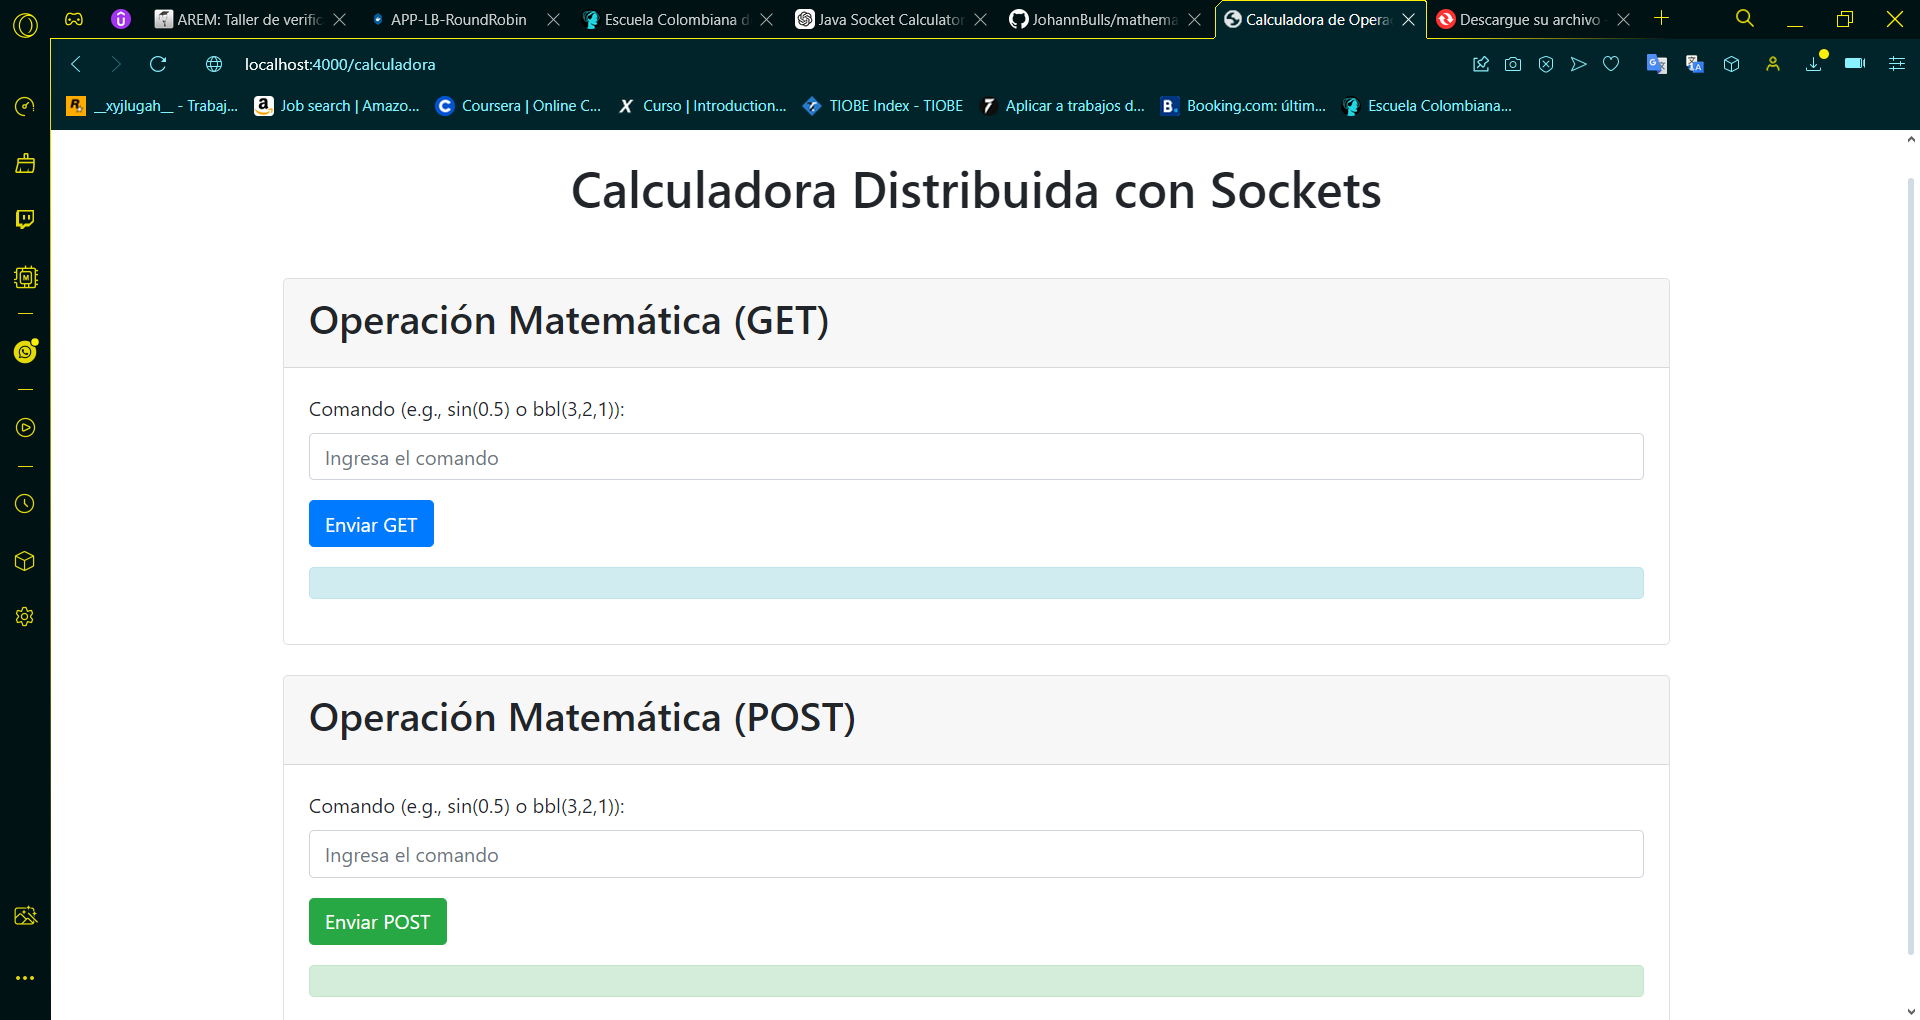
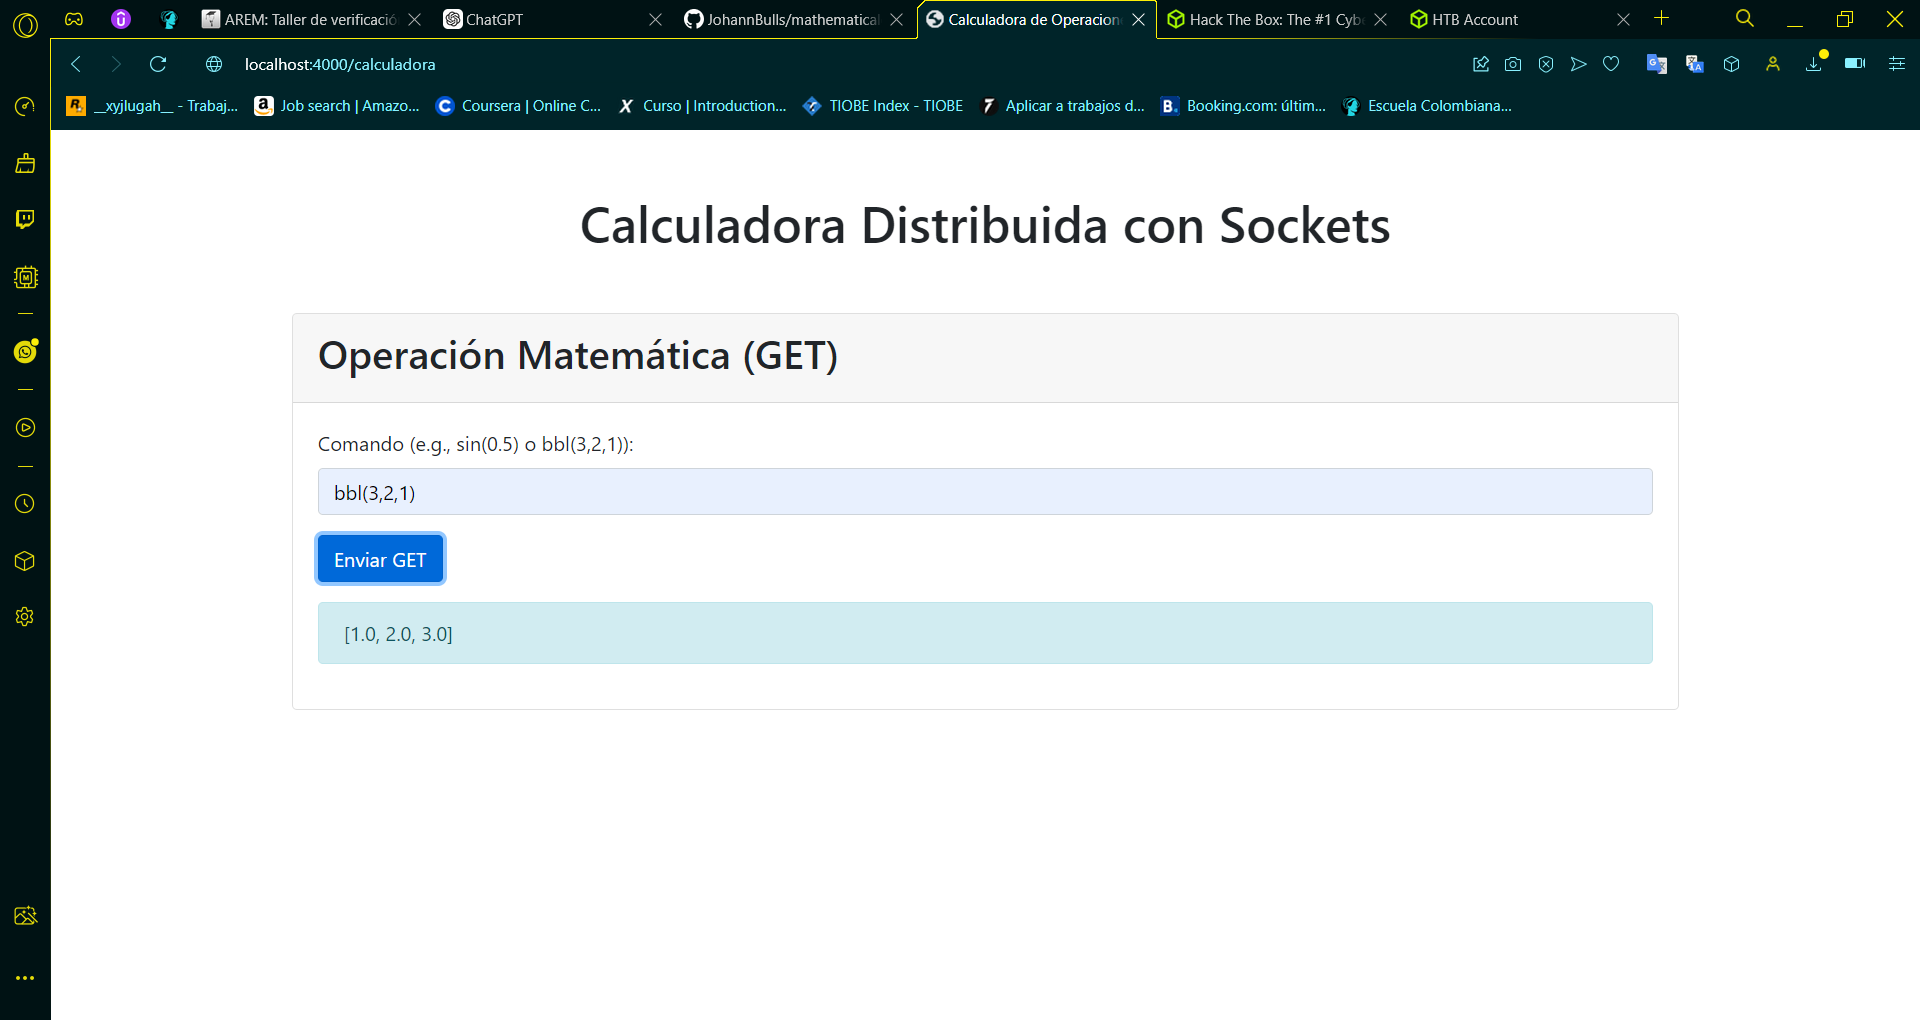
Correct

diff --git a/src/main/resources/web/index.html b/src/main/resources/web/index.html
@@ -4,7 +4,6 @@
     <meta charset="UTF-8">
     <meta name="viewport" content="width=device-width, initial-scale=1.0">
     <title>Calculadora de Operaciones Matemáticas</title>
-    
     <link href="https://stackpath.bootstrapcdn.com/bootstrap/4.5.2/css/bootstrap.min.css" rel="stylesheet">
     <link rel="icon" href="ico.ico" type="image/x-icon">
 
@@ -37,23 +36,6 @@
                 <div class="result-box alert alert-info mt-3" id="resultadoGet"></div>
             </div>
         </div>
-
-        <!-- Sección POST -->
-        <div class="card mb-4">
-            <div class="card-header">
-                <h2>Operación Matemática (POST)</h2>
-            </div>
-            <div class="card-body">
-                <form>
-                    <div class="form-group">
-                        <label for="comandoPost">Comando (e.g., sin(0.5) o bbl(3,2,1)):</label>
-                        <input type="text" class="form-control" id="comandoPost" name="comandoPost" placeholder="Ingresa el comando">
-                    </div>
-                    <button type="button" class="btn btn-success" onclick="enviarPost()">Enviar POST</button>
-                </form>
-                <div class="result-box alert alert-success mt-3" id="resultadoPost"></div>
-            </div>
-        </div>
     </div>
 
     <!-- Bootstrap JS and Dependencies -->
@@ -67,19 +49,10 @@
             let comando = document.getElementById("comando").value;
             const xhttp = new XMLHttpRequest();
             xhttp.onload = function() {
-                document.getElementById("resultadoGet").innerHTML = this.responseText;
+                let response = JSON.parse(this.responseText);
+                document.getElementById("resultadoGet").innerHTML = response.resultado;
             };
-            xhttp.open("GET", "/computar?" + comando);
-            xhttp.send();
-        }
-
-        function enviarPost() {
-            let comando = document.getElementById("comandoPost").value;
-            const xhttp = new XMLHttpRequest();
-            xhttp.onload = function() {
-                document.getElementById("resultadoPost").innerHTML = this.responseText;
-            };
-            xhttp.open("POST", "/computar?" + comando);
+            xhttp.open("GET", "/computar?" + encodeURIComponent(comando));
             xhttp.send();
         }
     </script>

diff --git a/src/main/java/co/edu/escuelaing/ReflexCalculator.java b/src/main/java/co/edu/escuelaing/ReflexCalculator.java
@@ -4,6 +4,8 @@ import java.io.*;
 import java.lang.reflect.Method;
 import java.net.ServerSocket;
 import java.net.Socket;
+import java.net.URLDecoder;
+import java.nio.charset.StandardCharsets;
 import java.util.Arrays;
 
 public class ReflexCalculator {
@@ -18,22 +20,31 @@ public class ReflexCalculator {
 
                     String inputLine = in.readLine();
                     System.out.println("Recibido: " + inputLine);
-                    String[] parts = inputLine.split("=");
-                    String comando = parts[1].split("\\(")[0];
-                    String[] params = parts[1].split("\\(")[1].replace(")", "").split(",");
 
-                    Double[] valores = Arrays.stream(params).map(Double::parseDouble).toArray(Double[]::new);
-                    String resultado;
+                    if (inputLine != null && inputLine.startsWith("GET /?")) {
+                        String comandoCompleto = inputLine.split(" ")[1].substring(2); // Eliminar '/?'
+                        
+                        comandoCompleto = URLDecoder.decode(comandoCompleto, StandardCharsets.UTF_8);           
 
-                    if (comando.equals("bbl")) {
-                        bubbleSort(valores);
-                        resultado = Arrays.toString(valores);
+                        String comando = comandoCompleto.split("\\(")[0]; // Ejemplo: sin
+                        String parametros = comandoCompleto.split("\\(")[1].replace(")", ""); // Ejemplo: 0.5 o 3,2,1
+
+
+                        Double[] valores = Arrays.stream(parametros.split(",")).map(Double::parseDouble).toArray(Double[]::new);
+                        String resultado;
+
+                        if (comando.equals("bbl")) {
+                            bubbleSort(valores);
+                            resultado = Arrays.toString(valores);
+                        } else {
+                            resultado = invocarMetodo(comando, valores);
+                        }
+
+                        String jsonResponse = "{\"resultado\":\"" + resultado + "\"}";
+                        out.println("HTTP/1.1 200 OK\r\nContent-Type: application/json\r\n\r\n" + jsonResponse);
                     } else {
-                        resultado = invocarMetodo(comando, valores);
+                        out.println("HTTP/1.1 400 Bad Request\r\nContent-Type: text/plain\r\n\r\nComando no válido");
                     }
-
-                    String jsonResponse = "{\"resultado\":\"" + resultado + "\"}";
-                    out.println("HTTP/1.1 200 OK\r\nContent-Type: application/json\r\n\r\n" + jsonResponse);
                 }
             }
         } catch (Exception e) {
@@ -41,15 +52,18 @@ public class ReflexCalculator {
         }
     }
 
+
     public static String invocarMetodo(String metodo, Double[] parametros) {
         try {
-            Class<?> mathClass = Math.class;
-            Method metodoRef = mathClass.getMethod(metodo, double.class);
+            Method metodoRef = Math.class.getMethod(metodo, double.class);
             return String.valueOf(metodoRef.invoke(null, parametros[0]));
+        } catch (NoSuchMethodException e) {
+            return "Error: El método " + metodo + " no existe o no es válido.";
         } catch (Exception e) {
             return "Error: " + e.getMessage();
         }
     }
+
 
     public static void bubbleSort(Double[] arr) {
         int n = arr.length;
@@ -64,4 +78,3 @@ public class ReflexCalculator {
         }
     }
 }
-

diff --git a/src/main/java/co/edu/escuelaing/ServiceFacade.java b/src/main/java/co/edu/escuelaing/ServiceFacade.java
@@ -23,8 +23,7 @@ public class ServiceFacade {
 
                     if (inputLine.contains("GET /calculadora")) {
                         entregarClienteWeb(out);
-                    }
-                    else if (inputLine.contains("/computar")) {
+                    } else if (inputLine.contains("/computar")) {
                         String comando = inputLine.split(" ")[1].split("\\?")[1];
                         String respuesta = hacerSolicitudCalculadora(comando);
                         out.println("HTTP/1.1 200 OK\r\nContent-Type: application/json\r\n\r\n" + respuesta);
@@ -48,7 +47,7 @@ public class ServiceFacade {
 
     public static String hacerSolicitudCalculadora(String comando) {
         try {
-            URL url = new URL("http://localhost:5000/compreflex=" + comando);
+            URL url = new URL("http://localhost:5000/?" + comando);
             HttpURLConnection con = (HttpURLConnection) url.openConnection();
             con.setRequestMethod("GET");
 
